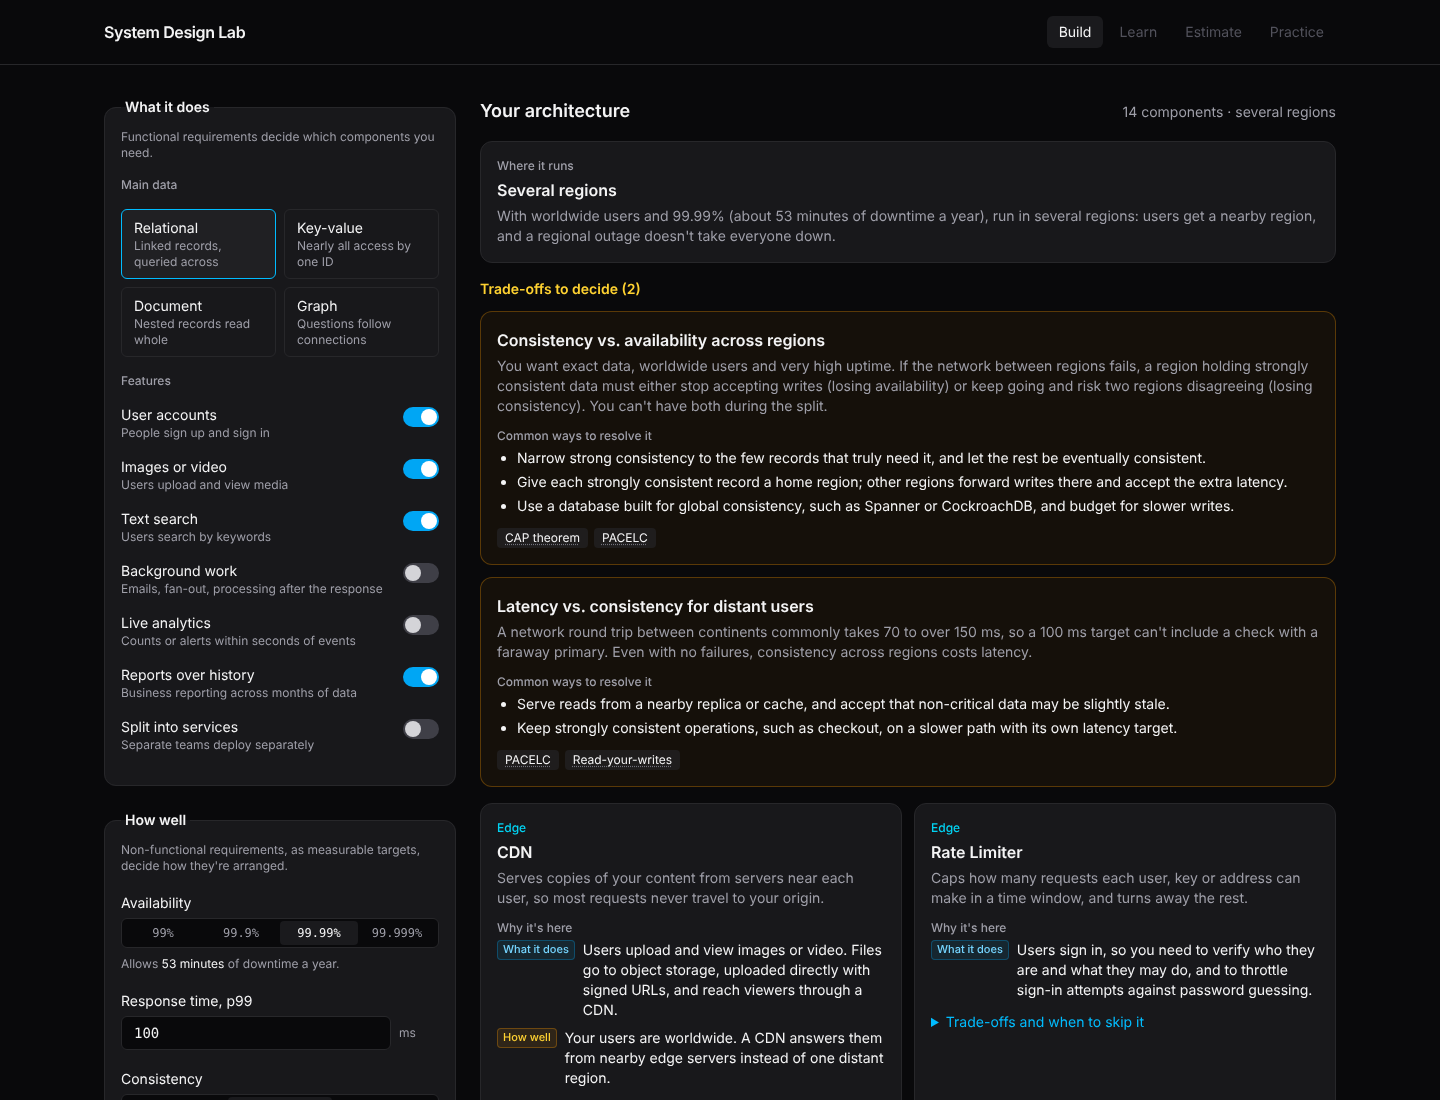
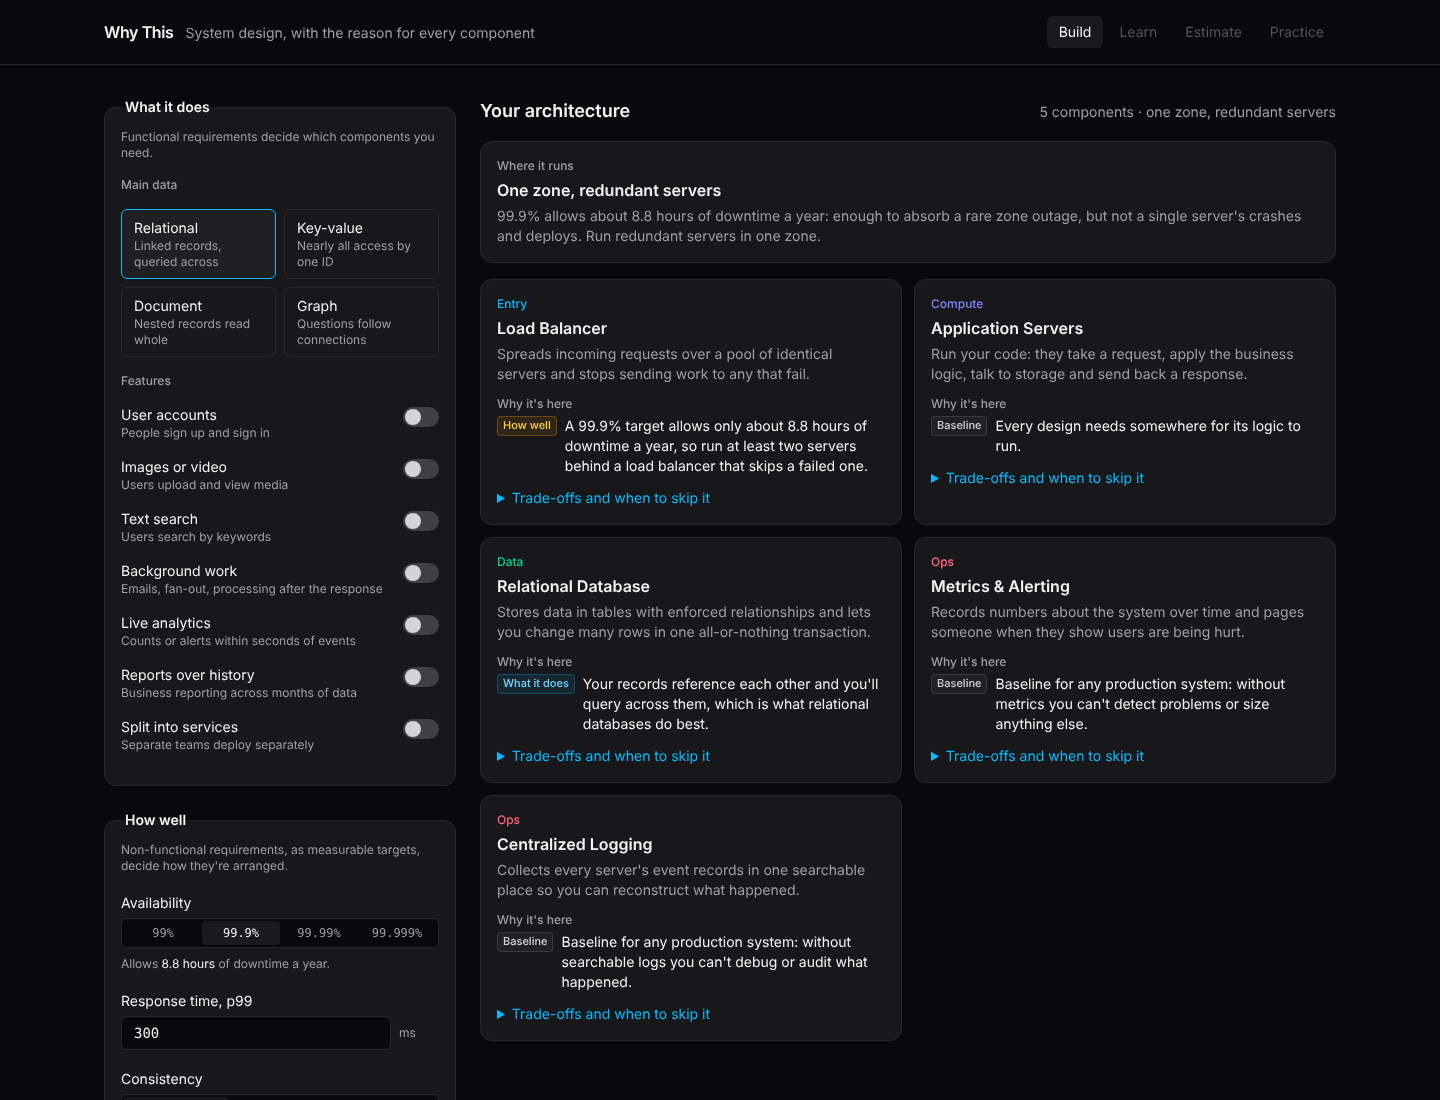
feat: rename the project to Why This and serve it from whythis.dev
- Page title, header and share tags use the new name and tagline
- Vite base is the domain root; public/CNAME names whythis.dev
- README, package name and the screenshot updated
- Repository links are unchanged: GitHub redirects them after the repo is renamed

Claude-Session: https://claude.ai/code/session_01GEcFuacA1KDBMhAXTmWhNq

diff --git a/index.html b/index.html
@@ -4,13 +4,21 @@
     <meta charset="UTF-8" />
     <meta name="viewport" content="width=device-width, initial-scale=1.0" />
     <meta name="description" content="Pick your requirements and see the architecture they call for, with the reason behind every component." />
-    <title>System Design Lab</title>
+    <title>Why This: system design, with the reason for every component</title>
+    <link rel="canonical" href="https://whythis.dev/" />
+    <meta property="og:title" content="Why This" />
+    <meta property="og:description" content="System design, with the reason for every component. Set your requirements and see the architecture they call for." />
+    <meta property="og:url" content="https://whythis.dev/" />
+    <meta property="og:type" content="website" />
     <link rel="icon" type="image/svg+xml" href="/favicon.svg" />
   </head>
   <body class="min-h-screen">
     <header class="border-b border-line">
       <div class="mx-auto flex max-w-7xl flex-wrap items-center justify-between gap-x-6 gap-y-2 px-6 py-4">
-        <a href="./" class="font-semibold tracking-tight whitespace-nowrap">System Design Lab</a>
+        <a href="./" class="flex items-baseline gap-3 whitespace-nowrap">
+          <span class="font-semibold tracking-tight">Why This</span>
+          <span class="hidden text-sm text-muted sm:inline">System design, with the reason for every component</span>
+        </a>
         <nav aria-label="Sections" class="-mx-3 flex gap-1 overflow-x-auto text-sm sm:mx-0">
           <a href="#build" aria-current="page" class="rounded-md bg-raised px-3 py-1.5 text-ink">Build</a>
           <span class="px-3 py-1.5 text-faint" title="Coming soon">Learn</span>

diff --git a/vite.config.ts b/vite.config.ts
@@ -1,8 +1,8 @@
 import { defineConfig } from "vite";
 import tailwindcss from "@tailwindcss/vite";
 
-// `base` matches the GitHub Pages path: https://<user>.github.io/system-design-lab/
+// Served from the root of the custom domain, https://whythis.dev (see public/CNAME).
 export default defineConfig({
-  base: "/system-design-lab/",
+  base: "/",
   plugins: [tailwindcss()],
 });

diff --git a/README.md b/README.md
@@ -1,4 +1,6 @@
-<h1 align="center">System Design Lab</h1>
+<h1 align="center">Why This</h1>
+
+<p align="center"><strong>System design, with the reason for every component.</strong></p>
 
 <p align="center">
   <a href="https://github.com/arndvs/system-design-lab/actions/workflows/ci.yml"><img src="https://github.com/arndvs/system-design-lab/actions/workflows/ci.yml/badge.svg" alt="CI status"></a>
@@ -8,10 +10,10 @@
 </p>
 
 <p align="center">
-  <a href="https://arndvs.github.io/system-design-lab/"><strong>Open the live site →</strong></a>
+  <a href="https://whythis.dev"><strong>whythis.dev →</strong></a>
 </p>
 
-![System Design Lab: requirements on the left, recommended components with their reasons on the right](docs/screenshot.png)
+![Why This: requirements on the left, recommended components with their reasons on the right](docs/screenshot.png)
 
 ---
 
@@ -19,7 +21,7 @@
 
 A table that maps problems to components is good for review. It's less good at teaching what interviews and real projects test: why a piece belongs in this design, what new problem it creates, and when it's overkill.
 
-System Design Lab makes those links visible. Change one requirement and you see exactly what gets added or dropped, and the reason.
+Why This makes those links visible. Change one requirement and you see exactly what gets added or dropped, and the reason.
 
 ## What's in it
 
@@ -33,12 +35,12 @@ System Design Lab makes those links visible. Change one requirement and you see 
 
 ## How it thinks
 
-Requirements come in two kinds, and the lab keeps them apart:
+Requirements come in two kinds, and Why This keeps them apart:
 
 - **Functional requirements**, the features such as sign-in, uploads, search and reports, decide **which components exist**.
 - **Non-functional requirements**, the quality targets such as 99.99% availability, 100 ms at p99 and which data must never be stale, decide **how those components are arranged**: one zone or several regions, cached or not, synchronous or not.
 
-Non-functional requirements are targets, not yes/no switches. Choosing 99.99% shows you it allows about 53 minutes of downtime a year, and the design changes to match. When targets pull against each other, such as exact stock counts for worldwide users at 99.99%, the lab names the trade-off (CAP and PACELC) and lists the usual ways out.
+Non-functional requirements are targets, not yes/no switches. Choosing 99.99% shows you it allows about 53 minutes of downtime a year, and the design changes to match. When targets pull against each other, such as exact stock counts for worldwide users at 99.99%, it names the trade-off (CAP and PACELC) and lists the usual ways out.
 
 ## Rules it gets right
 
@@ -47,7 +49,7 @@ Plenty of cheat sheets repeat a few shortcuts that don't hold up. The rules here
 - **The database follows the data's shape and access pattern.** Needing strong consistency doesn't force you onto SQL; DynamoDB, for example, offers strongly consistent reads. There's a test for this.
 - **Availability targets have consequences.** 99.9% adds a load balancer even at low traffic; 99.99% adds a standby database in another zone; 99.999% goes multi-region and warns about the cost.
 - **Consistency is set per kind of data.** "Mixed" (exact stock, slightly stale catalog) is often the honest answer, and it avoids a cache-versus-freshness conflict that "strong everywhere" would raise.
-- **Microservices aren't free.** With only a few services, the lab suggests a modular monolith; discovery and a service mesh appear only at 10 and 25 services.
+- **Microservices aren't free.** With only a few services, it suggests a modular monolith; discovery and a service mesh appear only at 10 and 25 services.
 - **Metrics and logging are always included.** Every production system needs them.
 - **Thresholds are stated, not hidden.** For example, a cache is suggested from 10 reads per write, and the reason names your ratio.
 
